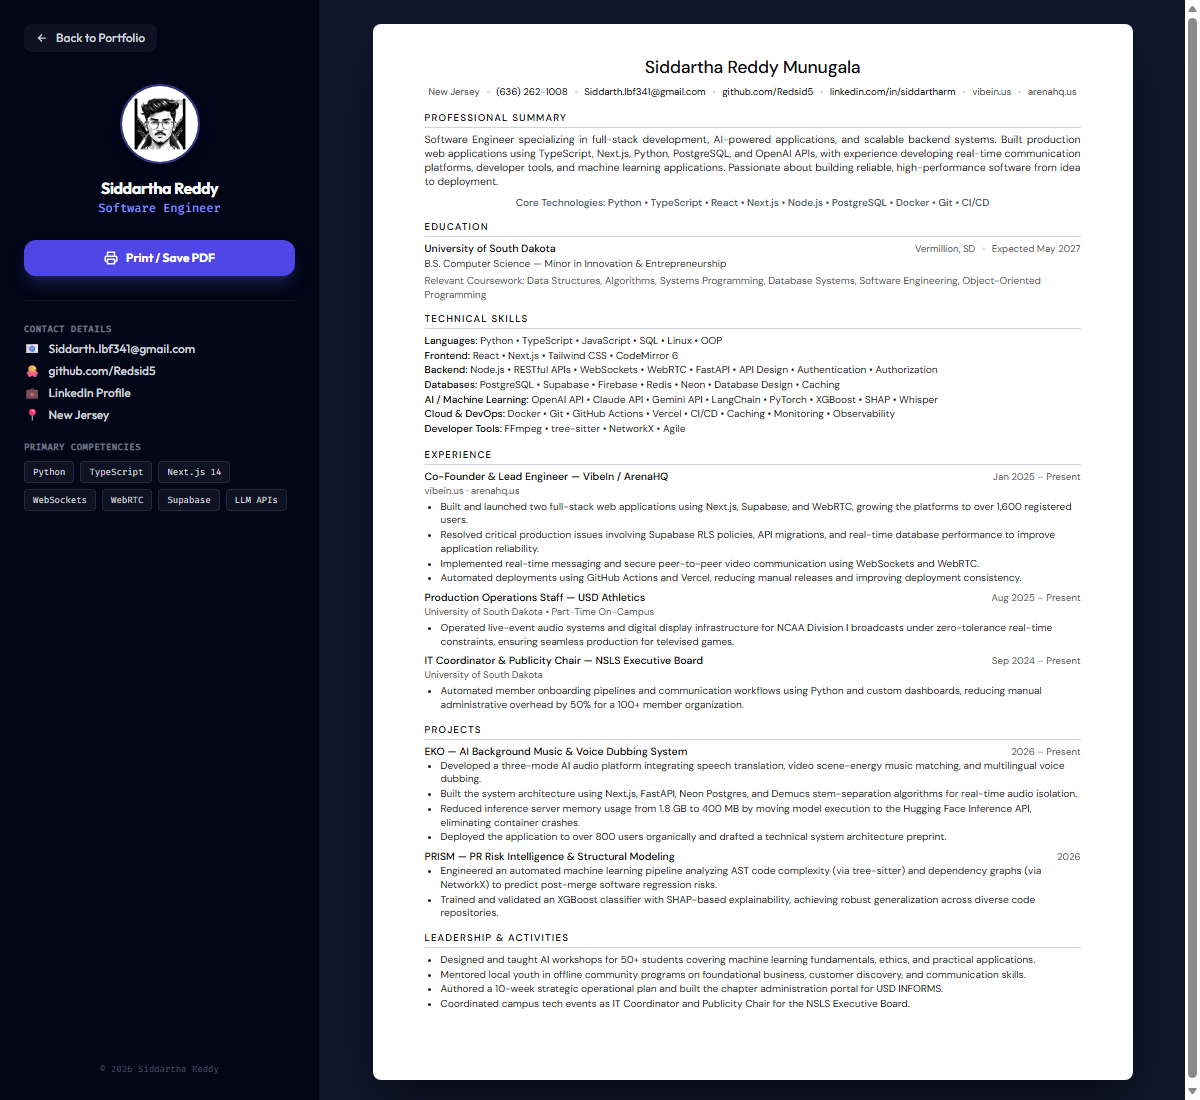
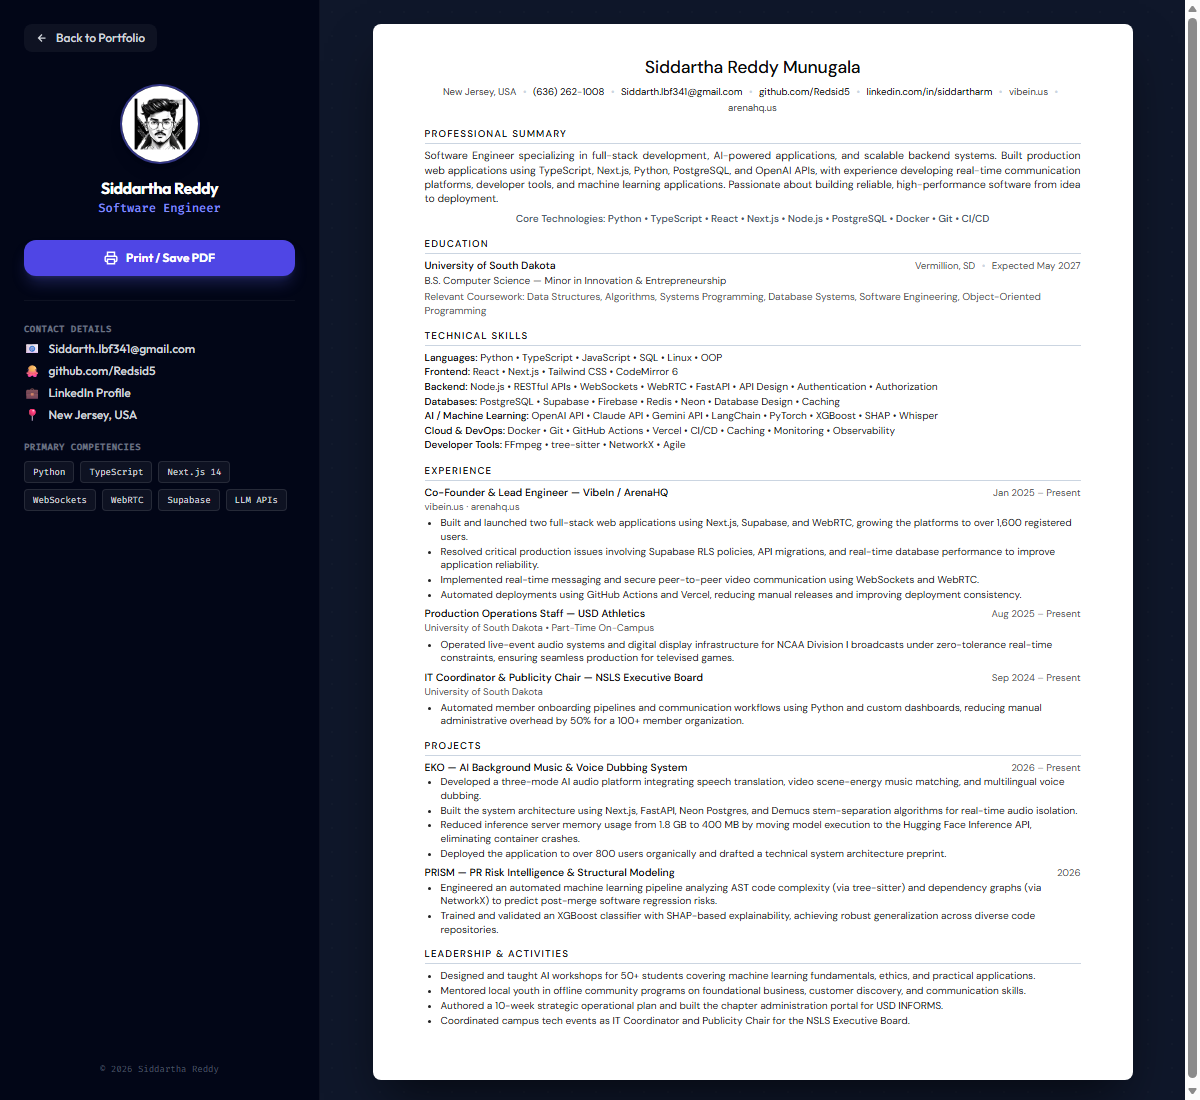
Update location layout string to New Jersey, USA in header and sidebar contact blocks

Changed region(s): [[0.3392, 0.0618, 0.8942, 0.9273], [0.0925, 0.3709, 0.1233, 0.4018]]

diff --git a/resume.html b/resume.html
@@ -284,7 +284,7 @@
             <div class="flex items-center gap-2"><span>📧</span> <a href="mailto:Siddarth.lbf341@gmail.com" class="hover:text-indigo-400">Siddarth.lbf341@gmail.com</a></div>
             <div class="flex items-center gap-2"><span>🐙</span> <a href="https://github.com/Redsid5" target="_blank" class="hover:text-indigo-400">github.com/Redsid5</a></div>
             <div class="flex items-center gap-2"><span>💼</span> <a href="https://linkedin.com/in/siddartha-reddy-munugala-95b35a333" target="_blank" class="hover:text-indigo-400">LinkedIn Profile</a></div>
-            <div class="flex items-center gap-2"><span>📍</span> <span>New Jersey</span></div>
+            <div class="flex items-center gap-2"><span>📍</span> <span>New Jersey, USA</span></div>
           </div>
         </div>
 
@@ -316,7 +316,7 @@
       <!-- HEADER -->
       <div class="header-name">Siddartha Reddy Munugala</div>
       <div class="contact">
-        New Jersey <span class="sep">&bull;</span>
+        New Jersey, USA <span class="sep">&bull;</span>
         <a href="tel:6362621008">(636) 262-1008</a> <span class="sep">&bull;</span>
         <a href="mailto:Siddarth.lbf341@gmail.com">Siddarth.lbf341@gmail.com</a> <span class="sep">&bull;</span>
         <a href="https://github.com/Redsid5" target="_blank">github.com/Redsid5</a> <span class="sep">&bull;</span>
